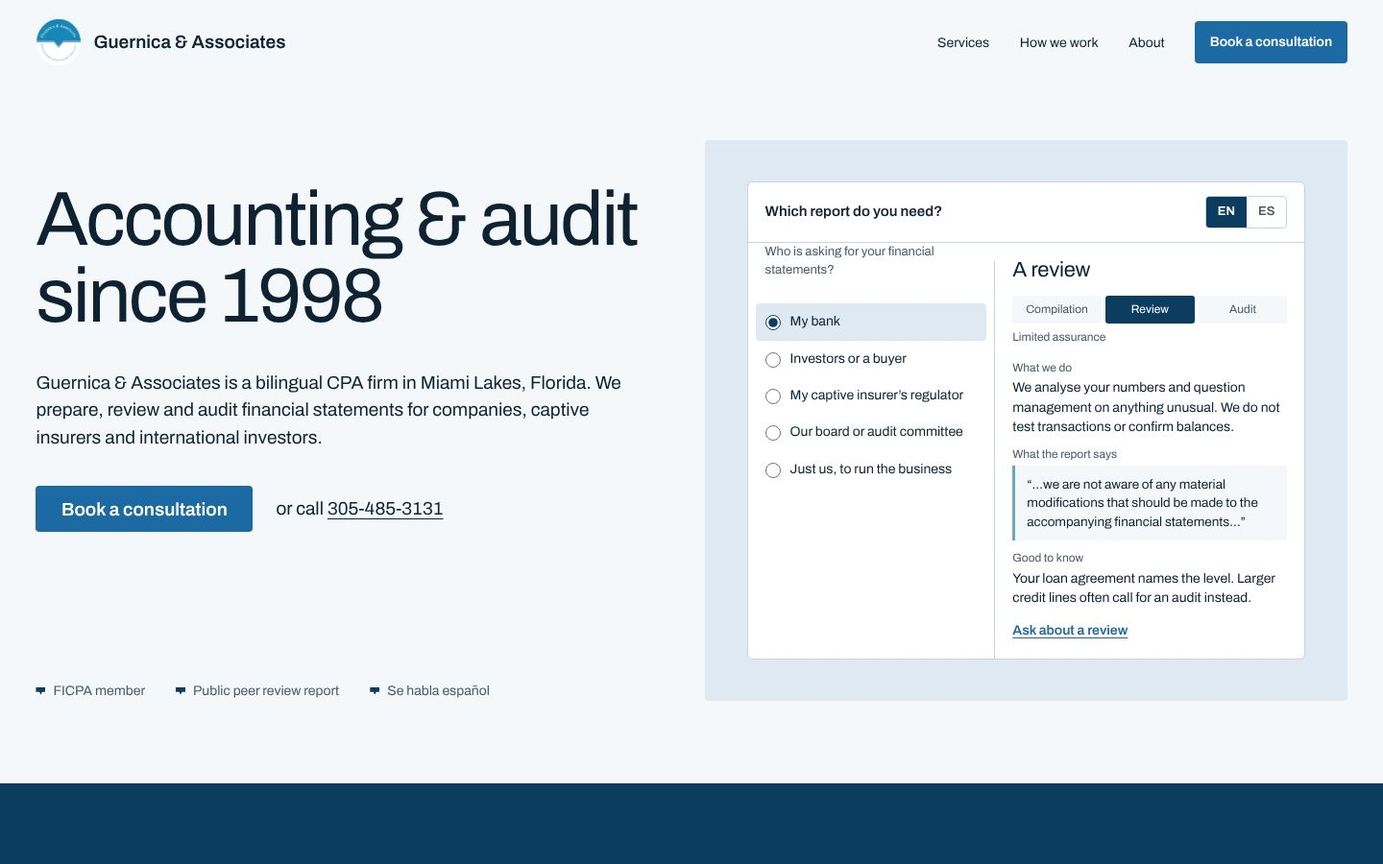
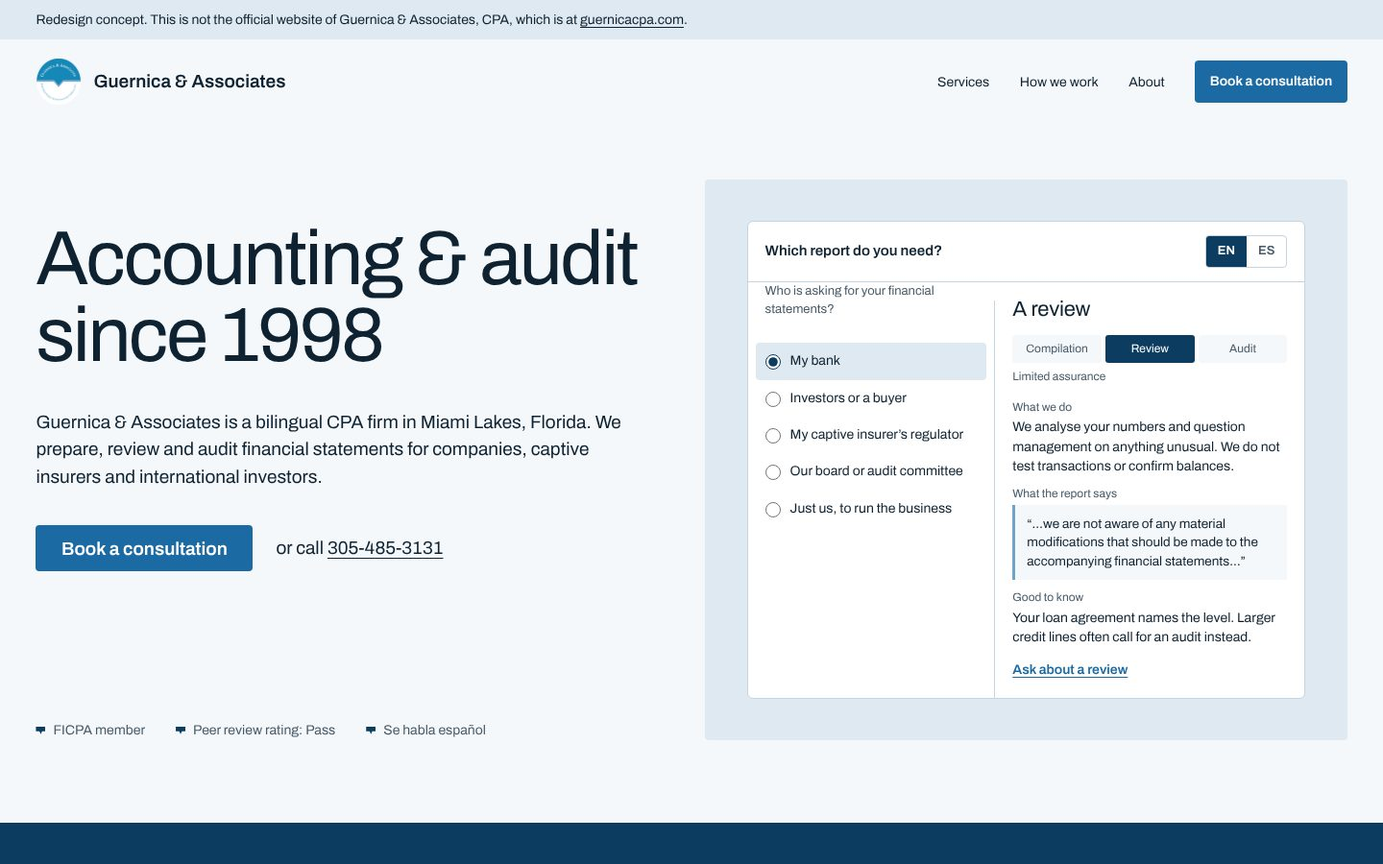
Use the firm's own service lists, team and peer review in CPA redesign
Replace sample content with Guernica & Associates' published accounting
and audit, tax and payroll lists, team titles, peer review rating and
IRS acceptance agent status. Add a redesign-concept notice and noindex.

Claude-Session: https://claude.ai/code/session_01R6cGPo5zSKy9HkRRuWPxVK

diff --git a/guernica-cpa/index.html b/guernica-cpa/index.html
@@ -6,6 +6,7 @@
 <title>Guernica &amp; Associates, CPA</title>
 <meta name="claude:viewport-fit-sides" content="cover">
 <meta name="description" content="Guernica &amp; Associates is a bilingual CPA firm in Miami Lakes, Florida, preparing, reviewing and auditing financial statements since 1998.">
+<meta name="robots" content="noindex">
 <link rel="icon" href="img/logo.png">
 <link rel="preconnect" href="https://fonts.googleapis.com">
 <link rel="preconnect" href="https://fonts.gstatic.com" crossorigin>
@@ -147,13 +148,18 @@ p { margin: 0; }
 .pbc__head b { font-weight: 600; font-size: 15px; }
 .pbc__head span { color: var(--muted); font-size: 13px; font-variant-numeric: tabular-nums; }
 .pbc ul { list-style: none; margin: 0; padding: 0; }
-.pbc li { display: flex; justify-content: space-between; align-items: center; gap: 12px; padding: 10px 18px; border-bottom: 1px solid var(--bg); } /* taste-skill-ignore: interface fragment / scallop mask */
-.pbc li:last-child { border-bottom: 0; } /* taste-skill-ignore: interface fragment / scallop mask */
-.chip { font-size: 12px; font-weight: 600; padding: 4px 9px; border-radius: 999px; white-space: nowrap; transition: background-color .3s ease, color .3s ease; }
-.chip[data-s="req"] { background: var(--bg); color: var(--muted); }
-.chip[data-s="rec"] { background: #e3eef7; color: var(--accent-press); }
-.chip[data-s="tst"] { background: var(--navy); color: #fff; }
-.pbc__foot { padding: 12px 18px; background: var(--bg); font-size: 13px; color: var(--muted); }
+.pbc__intro { padding: 12px 18px 4px; color: var(--muted); font-size: 13px; }
+.pbc li { display: flex; align-items: baseline; gap: 10px; padding: 8px 18px; font-size: 14.5px; transition: color .3s ease, background-color .3s ease; }
+.pbc li::before { content: ""; width: 10px; height: 8px; flex: none; background: var(--line); clip-path: polygon(0 0, 100% 0, 100% 62%, 64% 62%, 50% 100%, 36% 62%, 0 62%); transition: background-color .3s ease; }
+.js .pbc li { color: #64737f; }
+.js .pbc li.on { color: var(--ink); background: var(--bg); }
+.pbc li.on::before, html:not(.js) .pbc li::before { background: var(--navy); }
+.pbc__foot { padding: 12px 18px; background: var(--surface); font-size: 13px; color: var(--ink); display: flex; flex-wrap: wrap; justify-content: space-between; gap: 6px 16px; }
+.pbc__foot a { font-weight: 600; color: var(--accent); }
+
+/* Concept notice */
+.concept { background: var(--surface); font-size: var(--step-small); color: var(--ink); }
+.concept p { padding-block: 10px; }
 
 /* Services */
 .services { padding-block: var(--section); align-items: center; }
@@ -169,6 +175,11 @@ p { margin: 0; }
 .mark { flex: none; width: .78em; height: .62em; background: var(--c, var(--navy)); clip-path: polygon(0 0, 100% 0, 100% 62%, 64% 62%, 50% 100%, 36% 62%, 0 62%); transform: translateY(.04em); }
 .points li:nth-child(3n+2) { --c: var(--accent); }
 .points li:nth-child(3n) { --c: var(--sky); }
+.payroll { margin-top: 64px; }
+.payroll h3 { font-size: var(--step-lead); line-height: 1.2; letter-spacing: -0.01em; }
+.payroll ul { margin-top: 20px; list-style: none; padding: 0; display: grid; grid-template-columns: repeat(3, minmax(0, 1fr)); gap: 12px 40px; font-size: var(--step-small); }
+.payroll li { display: flex; gap: 10px; align-items: baseline; }
+.payroll li::before { content: ""; width: 9px; height: 7px; flex: none; background: var(--accent); clip-path: polygon(0 0, 100% 0, 100% 62%, 64% 62%, 50% 100%, 36% 62%, 0 62%); }
 
 /* Clients list */
 .clients { padding-block: 0 calc(var(--section) * .6); }
@@ -206,7 +217,7 @@ p { margin: 0; }
   mask: radial-gradient(10px at 50% 0, transparent 98%, #000) 50% 0 / 24px 100% repeat-x; } /* taste-skill-ignore: interface fragment / scallop mask */
 .tear a { font-size: var(--step-body); }
 .tear span { font-size: var(--step-small); color: var(--muted); }
-.about__credit { position: absolute; right: max(var(--m), env(safe-area-inset-right, 0px)); bottom: 12px; font-size: 12px; color: #3d3528; background: rgba(255,255,255,.7); padding: 2px 6px; }
+.about__credit { position: absolute; right: max(var(--m), env(safe-area-inset-right, 0px)); bottom: 12px; font-size: 13px; color: #3d3528; background: rgba(255,255,255,.7); padding: 2px 6px; }
 
 /* Proof tiles */
 .proof { padding-block: var(--section); }
@@ -292,6 +303,7 @@ a.tile--name:hover { background: var(--surface); }
   .services__pic { grid-column: 1 / -1; width: 86vw; height: 60svh; margin-bottom: 40px; margin-left: calc(-1 * max(var(--m), env(safe-area-inset-left, 0px))); }
   .services__copy { grid-column: 1 / -1; }
   .points { grid-template-columns: 1fr; gap: 28px; margin-top: 40px; }
+  .payroll ul { grid-template-columns: 1fr 1fr; gap: 10px 20px; }
   .clients__intro { grid-column: 1 / -1; }
   .clients__groups { grid-template-columns: 1fr; margin-top: 40px; }
   .group li { flex-direction: column; gap: 2px; }
@@ -310,6 +322,8 @@ a.tile--name:hover { background: var(--surface); }
 </head>
 <body>
 <script>document.documentElement.classList.add('js');</script>
+
+<div class="concept"><p class="wrap">Redesign concept. This is not the official website of Guernica &amp; Associates, CPA, which is at <a class="link" href="https://www.guernicacpa.com/">guernicacpa.com</a>.</p></div>
 
 <header class="wrap">
   <nav class="nav" aria-label="Main">
@@ -334,7 +348,7 @@ a.tile--name:hover { background: var(--surface); }
       </div>
       <ul class="hero__facts">
         <li>FICPA member</li>
-        <li>Public peer review report</li>
+        <li>Peer review rating: Pass</li>
         <li>Se habla espa&ntilde;ol</li>
       </ul>
     </div>
@@ -384,35 +398,41 @@ a.tile--name:hover { background: var(--surface); }
   <section class="story" id="approach" aria-labelledby="h-approach">
     <div class="wrap grid">
       <div class="story__steps">
-        <h2 class="h2" id="h-approach">How an audit runs here</h2>
-        <div class="step is-active" data-step="1">
-          <h3>One request list, at the start</h3>
-          <p>Before fieldwork we send a single list of everything we need, with due dates, in English or Spanish.</p>
+        <h2 class="h2" id="h-approach">Accounting &amp; auditing</h2>
+        <div class="step is-active" data-step="a">
+          <h3>Statements your lender can rely on</h3>
+          <p>Preparation, compilations, reviews and audits of your financial statements, with the bookkeeping and forecasts behind them.</p>
         </div>
-        <div class="step" data-step="2">
-          <h3>Fieldwork tests what you sent</h3>
-          <p>We confirm balances with your bank and customers, test samples of transactions and walk through the controls behind them.</p>
+        <div class="step" data-step="b">
+          <h3>Controls your board can rely on</h3>
+          <p>Internal control reviews and testing, operational and quality assurance reviews, or your whole internal audit function.</p>
         </div>
-        <div class="step" data-step="3">
-          <h3>A draft before we sign</h3>
-          <p>You read the draft statements and our management letter first. Then we issue the signed report.</p>
+        <div class="step" data-step="c">
+          <h3>Starting, buying or growing</h3>
+          <p>Systems and software for new businesses, start-up consulting, due diligence before an acquisition, and strategic planning.</p>
         </div>
       </div>
       <div class="story__pin">
         <div class="pbc" data-ui>
-          <div class="pbc__head"><b>Audit request list, FY 2026</b><span id="pbc-count">3 of 9 received</span></div>
+          <div class="pbc__head"><b>Accounting &amp; Auditing</b><span id="pbc-count">3 of 14 services</span></div>
+          <p class="pbc__intro">Our experienced accounting and audit professionals can help you with:</p>
           <ul id="pbc">
-            <li>Year-end trial balance <span class="chip" data-s="rec">Received</span></li>
-            <li>Bank statements and reconciliations <span class="chip" data-s="rec">Received</span></li>
-            <li>Accounts receivable aging <span class="chip" data-s="rec">Received</span></li>
-            <li>Accounts payable listing <span class="chip" data-s="req">Requested</span></li>
-            <li>Fixed asset rollforward <span class="chip" data-s="req">Requested</span></li>
-            <li>Loan and lease agreements <span class="chip" data-s="req">Requested</span></li>
-            <li>Board minutes <span class="chip" data-s="req">Requested</span></li>
-            <li>Payroll registers <span class="chip" data-s="req">Requested</span></li>
-            <li>Attorney letters <span class="chip" data-s="req">Requested</span></li>
+            <li data-g="a" class="on">Financial statement preparation, audits, reviews and compilations</li>
+            <li data-g="a" class="on">Bookkeeping and controllership functions</li>
+            <li data-g="c">Accounting system setup for new businesses</li>
+            <li data-g="a" class="on">Financial forecasts and projections</li>
+            <li data-g="c">Business start-up and management consulting</li>
+            <li data-g="c">Accounting software selection and implementation</li>
+            <li data-g="c">Due diligence</li>
+            <li data-g="c">Acquisition planning and due diligence business investigations</li>
+            <li data-g="c">Strategic analysis and planning</li>
+            <li data-g="b">Internal control reviews</li>
+            <li data-g="b">Full outsourcing of internal audit</li>
+            <li data-g="b">Internal controls testing and documentation</li>
+            <li data-g="b">Quality assurance reviews</li>
+            <li data-g="b">Operational audits</li>
           </ul>
-          <div class="pbc__foot" id="pbc-foot">Example list. Yours is written for your company.</div>
+          <div class="pbc__foot"><span>Peer review rating: Pass (year ended Dec 31, 2022)</span><a href="https://www.guernicacpa.com/_files/ugd/37385f_c230e62b45eb47e7815053223981a79b.pdf">Read the report</a></div>
         </div>
       </div>
     </div>
@@ -423,47 +443,62 @@ a.tile--name:hover { background: var(--surface); }
       <img src="img/office-door.jpg" alt="The entrance to Guernica &amp; Associates at 6175 Miami Lakes Drive East, with the firm's blue sign on the glass door" width="900" height="1600" loading="lazy">
     </figure>
     <div class="services__copy" data-rise>
-      <h2 class="h2" id="h-services">Services, in full</h2>
-      <p>The audit is the centre of the practice. Around it sit the books, the controls and the tax work that make an audit go smoothly.</p>
+      <h2 class="h2" id="h-services">Tax and payroll</h2>
+      <p>For businesses of any size or structure (corporations, LLCs, partnerships and non-profits), and for the individuals, families and investors behind them.</p>
       <ul class="points">
-        <li><h3><span class="mark"></span>Audits, reviews, compilations</h3><p>Financial statements at the level your bank, investors or regulator ask for.</p></li>
-        <li><h3><span class="mark"></span>Bookkeeping and controllership</h3><p>Monthly closes and reconciliations, so year-end has no surprises.</p></li>
-        <li><h3><span class="mark"></span>Due diligence</h3><p>Acquisition planning and investigations before you buy a business.</p></li>
-        <li><h3><span class="mark"></span>Internal control reviews</h3><p>Testing and documentation of the controls behind your numbers.</p></li>
-        <li><h3><span class="mark"></span>Accounting system setup</h3><p>Charts of accounts and software for new businesses. QuickBooks ProAdvisor.</p></li>
-        <li><h3><span class="mark"></span>International tax</h3><p>US tax and reporting for foreign investors and international corporations.</p></li>
-        <li><h3><span class="mark"></span>Outsourced internal audit</h3><p>A full internal audit function, reporting to your board or audit committee.</p></li>
-        <li><h3><span class="mark"></span>Forecasts and projections</h3><p>Prospective statements for lenders, investors and your own planning.</p></li>
-        <li><h3><span class="mark"></span>Tax and IRS representation</h3><p>Business returns, and representation before the IRS and state authorities.</p></li>
-        <li><h3><span class="mark"></span>Operational audits</h3><p>Quality assurance reviews and operational audits of how work gets done.</p></li>
-        <li><h3><span class="mark"></span>Strategic planning</h3><p>Analysis and planning for start-ups and growing companies.</p></li>
-        <li><h3><span class="mark"></span>Payroll</h3><p>Online payroll and payroll taxes for small and midsize businesses.</p></li>
+        <li><h3><span class="mark"></span>Individual tax</h3><p>Personal returns prepared with current tax preparation and research software.</p></li>
+        <li><h3><span class="mark"></span>Business tax</h3><p>Returns prepared in compliance with every law, using every saving available.</p></li>
+        <li><h3><span class="mark"></span>International tax</h3><p>Inbound and outbound investment. IRS Certifying Acceptance Agent for ITINs and FIRPTA.</p></li>
+        <li><h3><span class="mark"></span>Tax planning</h3><p>A plan based on the most recent law, for this year and the years ahead.</p></li>
+        <li><h3><span class="mark"></span>Estate and trust tax</h3><p>Planning and preparation for your beneficiaries and your business succession.</p></li>
+        <li><h3><span class="mark"></span>Business valuation</h3><p>Full financial models, up to complex, illiquid securities and Level 3 assets.</p></li>
       </ul>
+      <div class="payroll">
+        <h3>Payroll</h3>
+        <ul>
+          <li>General payroll processing</li>
+          <li>New hire reporting</li>
+          <li>State and local tax filing</li>
+          <li>Federal tax filing</li>
+          <li>Quarterly tax filing</li>
+          <li>Year-end reporting</li>
+          <li>W-2 and 1099 preparation</li>
+          <li>Garnishment payment</li>
+          <li>Retirement plan reporting</li>
+          <li>Paper checks and direct deposit</li>
+          <li>Employee portals</li>
+          <li>Online payroll portal</li>
+        </ul>
+      </div>
     </div>
   </section>
 
   <section class="wrap grid clients" aria-labelledby="h-clients">
     <div class="clients__intro" data-rise>
       <h2 class="h2" id="h-clients">Who we work with</h2>
-      <p>Local companies and international clients, served by bilingual professionals in English and Spanish.</p>
+      <p>A bilingual team in Miami Lakes, fluent in English and Spanish, led by a CPA licensed in Florida since 1989.</p>
     </div>
     <div class="clients__groups" data-rise>
       <div class="group">
-        <h3>In the United States</h3>
+        <h3>Our team</h3>
         <ul>
-          <li><span>Small and midsize companies</span><span>Accounting, audit, tax, payroll</span></li>
-          <li><span>National firms</span><span>Audit and advisory</span></li>
-          <li><span>New businesses</span><span>Setup and bookkeeping</span></li>
-          <li><span>Boards and audit committees</span><span>Internal audit</span></li>
+          <li><span>Eduardo A. Guernica, CPA, MST, CVA</span><span>Founder and CEO</span></li>
+          <li><span>Elvis Guernica, M.S.A.</span><span>Audit &amp; Assurance Manager</span></li>
+          <li><span>Ana L. Ramos</span><span>Tax Manager</span></li>
+          <li><span>Loreli Mendez</span><span>Certified Public Accountant</span></li>
+          <li><span>Esmeralda Valdes</span><span>Tax Senior</span></li>
+          <li><span>Mileny Bethencourt</span><span>Administrative Assistant</span></li>
         </ul>
       </div>
       <div class="group">
-        <h3>International</h3>
+        <h3>Our clients</h3>
         <ul>
-          <li><span>Captive foreign insurers</span><span>Audit and tax</span></li>
-          <li><span>International investors</span><span>US tax and due diligence</span></li>
-          <li><span>International corporations</span><span>Accounting and reporting</span></li>
-          <li><span>Spanish-speaking owners</span><span>Every service, en espa&ntilde;ol</span></li>
+          <li><span>National firms</span><span>Corporate, tax, advisory, assurance</span></li>
+          <li><span>Captive foreign insurers</span><span>Assurance and tax</span></li>
+          <li><span>International investors</span><span>International tax and ITINs</span></li>
+          <li><span>Small and midsize companies</span><span>Accounting, tax, payroll</span></li>
+          <li><span>Local and international corporations</span><span>Accounting and reporting</span></li>
+          <li><span>Individuals and families</span><span>Personal, estate and trust tax</span></li>
         </ul>
       </div>
     </div>
@@ -479,29 +514,30 @@ a.tile--name:hover { background: var(--surface); }
       <article class="letter" data-rise>
         <div class="letter__top"><img src="img/logo.png" alt="" width="52" height="52"><h2 class="h2" id="h-about">About the firm</h2></div>
         <div class="letter__body">
-          <p>We have been in practice since 1998, first as Guernica &amp; Gonzalez, CPA and Consultants, and now as Guernica &amp; Associates.</p>
-          <p>Our work is national and international: corporate tax, advisory and assurance for national firms, captive foreign insurance companies and international investors, and for small and midsize companies here in South Florida.</p>
-          <p>Our professionals work in <mark>English and Spanish</mark>, so owners and their staff can talk through their numbers in the language they think in.</p>
-          <p>We treat each client relationship as a partnership. When your statements hold up in front of your bank, your board or your regulator, we have done our job.</p>
+          <p>Since 1998, first as Guernica &amp; Gonzalez and now as Guernica &amp; Associates, we have provided corporate, tax, advisory and assurance services to national firms, captive foreign insurance companies and international investors.</p>
+          <p>We take pride in personal attention. The help you receive comes from years of advanced training, technical expertise and financial acumen, delivered on time.</p>
+          <p>Our bilingual professionals, fluent in <mark>English and Spanish</mark>, help local and international corporations manage their accounting and tax and meet today&rsquo;s reporting requirements.</p>
+          <p>We view every client relationship as a partnership. Our success is a direct result of yours.</p>
         </div>
-        <div class="letter__sign"><em>Guernica &amp; Associates, CPA</em><span>Certified Public Accountants &amp; Consultants</span></div>
+        <div class="letter__sign"><em>Eduardo A. Guernica, CPA, MST, CVA</em><span>Founder and CEO. Licensed CPA in Florida since 1989, MS in Taxation (FIU), Certified Valuation Analyst.</span></div>
       </article>
       <div class="tear"><a class="link" href="mailto:info@guernicacpa.com">info@guernicacpa.com</a><span>We reply in English or Spanish</span></div>
     </div>
+    <span class="about__credit">Ledger: Dupedianer, CC BY-SA 4.0</span>
   </section>
 
   <section class="wrap proof" aria-labelledby="h-proof">
     <div class="tiles" data-rise>
       <div class="tile tile--head">
         <h2 class="h2" id="h-proof">Credentials we hold</h2>
-        <p>An audit is only as good as the firm that signs it. These are ours, and our peer review report is public.</p>
+        <p>Our accounting and audit practice received a peer review rating of Pass in its most recent System Review, for the year ended December 31, 2022.</p>
       </div>
       <div class="tile"><img src="img/ficpa.jpg" alt="Proud member of the Florida Institute of Certified Public Accountants" width="560" height="168" loading="lazy"></div>
       <div class="tile"><img src="img/proadvisor.png" alt="Intuit QuickBooks ProAdvisor" width="346" height="490" loading="lazy"></div>
+      <a class="tile tile--name" href="https://www.guernicacpa.com/_files/ugd/37385f_c230e62b45eb47e7815053223981a79b.pdf"><b>Peer review: Pass</b><span>Read the report</span></a>
+      <div class="tile tile--name"><b>IRS Certifying Acceptance Agent</b><span>ITINs for foreign individuals</span></div>
       <div class="tile"><img src="img/cpa-mark.png" alt="The CPA. Never Underestimate The Value." width="518" height="196" loading="lazy"></div>
       <div class="tile tile--zoom"><img src="img/prestige-2022.jpg" alt="South East USA Prestige Awards, 2022 winner" width="438" height="411" loading="lazy"></div>
-      <a class="tile tile--name" href="https://www.guernicacpa.com/accounting-auditing"><b>Peer review report</b><span>Read it on our audit page</span></a>
-      <div class="tile tile--name"><b>Since 1998</b><span>Formerly Guernica &amp; Gonzalez</span></div>
     </div>
   </section>
 
@@ -620,25 +656,17 @@ a.tile--name:hover { background: var(--surface); }
   }));
   render(false);
 
-  // Pinned request list advances with the steps
-  const states = {
-    1: ['rec','rec','rec','req','req','req','req','req','req'],
-    2: ['tst','tst','tst','rec','rec','rec','rec','rec','req'],
-    3: ['tst','tst','tst','tst','tst','tst','tst','tst','tst']
-  };
-  const label = { req: 'Requested', rec: 'Received', tst: 'Tested' };
-  const chips = [...document.querySelectorAll('#pbc .chip')];
-  const count = $('pbc-count'), foot = $('pbc-foot');
-  function setStep(n) {
-    states[n].forEach((s, i) => { chips[i].dataset.s = s; chips[i].textContent = label[s]; });
-    const got = states[n].filter((s) => s !== 'req').length;
-    count.textContent = n === 3 ? 'Draft report sent' : got + ' of 9 received';
-    foot.textContent = n === 3 ? 'Every item tested. Management letter attached to the draft.' : 'Example list. Yours is written for your company.';
-    document.querySelectorAll('.step').forEach((s) => s.classList.toggle('is-active', s.dataset.step == n));
+  // Pinned service list highlights the group each statement describes
+  const rows = [...document.querySelectorAll('#pbc li')];
+  const count = $('pbc-count');
+  function setStep(g) {
+    rows.forEach((r) => r.classList.toggle('on', r.dataset.g === g));
+    count.textContent = rows.filter((r) => r.dataset.g === g).length + ' of 14 services';
+    document.querySelectorAll('.step').forEach((s) => s.classList.toggle('is-active', s.dataset.step === g));
   }
   const steps = document.querySelectorAll('.step');
   if ('IntersectionObserver' in window) {
-    const so = new IntersectionObserver((es) => es.forEach((e) => { if (e.isIntersecting) setStep(+e.target.dataset.step); }), { rootMargin: '-45% 0px -45% 0px' });
+    const so = new IntersectionObserver((es) => es.forEach((e) => { if (e.isIntersecting) setStep(e.target.dataset.step); }), { rootMargin: '-45% 0px -45% 0px' });
     steps.forEach((s) => so.observe(s));
     const ro = new IntersectionObserver((es) => es.forEach((e) => { if (e.isIntersecting) { e.target.classList.add('in'); ro.unobserve(e.target); } }), { rootMargin: '0px 0px -8% 0px' });
     document.querySelectorAll('[data-rise]').forEach((el) => ro.observe(el));

diff --git a/guernica-cpa/AUDIT.md b/guernica-cpa/AUDIT.md
@@ -1,62 +1,65 @@
 # Guernica & Associates, CPA: design audit and redesign
 
-Audited: https://www.guernicacpa.com/ (homepage), 30 Oct 2026, using tasteskill v2 (`Leonxlnx/taste-skill`): its browser inspector at 1440, 768 and 390px, and its juror critique.
+Audited: https://www.guernicacpa.com/ (homepage plus the Accounting & Auditing, Taxation, Payroll and About pages), 30 Oct 2026.
+
+Tool: tasteskill v2, installed with `npx skills add Leonxlnx/taste-skill` (skill `design-taste-frontend`), using its browser inspector at 1440, 768 and 390px, its lint, its direction draw and its juror critique.
 
 ## Verdict
 
-The current site hides an accounting and audit practice behind a stock tax-form photo, an off-topic headline ("Business Advisory Solutions") and a layout that does not work on phones. The redesign leads with what the firm actually signs: compilations, reviews and audits.
+The current site hides an accounting and audit practice behind a stock tax-form photo, an off-topic headline ("Business Advisory Solutions") and a layout that does not work on phones. The redesign leads with what the firm actually signs (compilations, reviews and audits) and uses only the firm's own published content.
 
 | | Before | After |
 | --- | --- | --- |
 | Inspector result | 8 FAIL, 5 WARN | 0 FAIL, 1 WARN |
-| Juror score (of 10) | 4.3 | 7.4 |
+| Juror score (of 10) | 4.3 | 7.5 |
 | Phone layout | Desktop page shrunk to 980px; tablet scrolls sideways 212px | Own phone composition, no sideways scroll |
 | First-screen title | "Business Advisory Solutions" under a "Taxation Specialists" label | "Accounting & audit since 1998" |
 | Primary action on first screen | None | "Book a consultation" button and phone number |
 | Typefaces | 3 (Open Sans, Raleway, Georgia) | 1 (Archivo) |
 | Text shadows | 23 | 0 |
 | Unreadable text (measured) | 4 blocks at 1:1 contrast | 0 |
-| Words of real content | 347 | about 800 |
+| Peer review "Pass" | A bare "Peer Review Report:" label on an inner page | On the first screen, the services panel and the credentials |
 
 ![Before, desktop](audit/before-desktop.jpg) ![After, desktop](audit/after-desktop.jpg)
 
 ## What is wrong today (ranked)
 
-1. **Not mobile-ready.** The page renders at 980px on a 390px phone, so visitors pinch and zoom. At tablet width it scrolls sideways and the "CPA" title is half covered.
+1. **Not mobile-ready.** The page renders at 980px on a 390px phone. At tablet width it scrolls sideways and the "CPA" title is half covered.
 2. **The wrong story.** The hero is a 2007 IRS Form 1040 with a calculator and says "Taxation Specialists". The firm's own pages say its core is accounting and audit.
 3. **No clear next step.** No button above the fold. The only actions are three identical "More Info" buttons.
-4. **Template look.** Three identical navy cards with centred small text, a centred "ABOUT US" wall of text, and a footer that is mostly empty navy.
-5. **Legibility.** 23 text shadows, light-on-light text, three typefaces, and body text at 1.2 line height.
-6. **Strengths buried.** Bilingual service, captive insurers and international investors, the peer review report and the FICPA membership sit in paragraphs or as small badges at the bottom.
+4. **Best proof is buried.** The firm passed its most recent peer review (System Review, year ended Dec 31, 2022) and is an IRS Certifying Acceptance Agent. Neither appears on the homepage.
+5. **Team page errors.** On the About page, bios sit under the wrong names (the "Anita" bio is under Loreli Mendez, Loreli's bio is under Esmeralda Valdes), and "Certified Puplic Accountant" is misspelled. For an audit firm, that undercuts trust.
+6. **Template look and legibility.** Identical navy cards with centred small text, 23 text shadows, three typefaces, body text at 1.2 line height.
 
 ## The redesign
 
 - **Idea:** the three levels of assurance the firm signs (compilation, review, audit) become a working engagement picker on the first screen.
-- **Live thing:** "Who is asking for your financial statements?" Pick bank, investors, captive insurance regulator, board, or just you. It shows the engagement, the assurance level, what the CPA does, the actual report wording, and a link to ask about it. One tap switches it to Spanish.
-- **Signature move:** "How an audit runs here" pins an example audit request list that moves from Requested to Received to Tested as you scroll.
-- **Pictures:** the firm's own office photos and credentials, plus two credited open-licence photos (Miami Lakes, a ledger).
+- **Live thing:** "Who is asking for your financial statements?" Pick bank, investors, captive insurance regulator, board, or just you. It shows the engagement, the assurance level, what the CPA does, the report wording, and a link to ask. One tap switches it to Spanish.
+- **Signature move:** "Accounting & auditing" pins the firm's own 14-item service list and highlights it in three groups as you scroll: statements for lenders, controls for boards, starting or buying a business.
+- **All content from the firm:** the 14 accounting and audit services, six tax services, 12 payroll items, six team members and titles, the peer review rating with a link to the report, and the IRS acceptance agent status.
 - **Brand kept:** navy and logo blue; the notched chevron from the door sign and logo is the one shape used across the page.
+- **Direction dealt:** "The product performs" (seed 1757103226), palette kept from the brand. The hero follows the direction's composition (headline left, working fragment right) instead of the dealt "sentence split by a frame" hero, because the direction outranks the hero blueprint.
 
 ## Critique, final round
 
 ```
-ROUND 2
+ROUND 3
 Seen in one second: "Accounting & audit since 1998" beside a working report picker
 Idea (one sentence): the three levels of assurance become a picker that answers "which report do I need?"
 Live thing: bilingual engagement picker (5 situations, EN/ES)
-Layout words by section: hero=split+fragment / approach=pinned list / services=shaped photo+points / clients=two lists / place=full-bleed photo / about=letter on ledger / proof=tiles / contact=band / footer=strip
-Scores: design 7 · usability 8 · creativity 7 · content 7.5 → overall 7.4
+Layout words by section: hero=split+fragment / accounting=pinned list / tax=shaped photo+points / people=two lists / place=full-bleed photo / about=letter on ledger / proof=tiles / contact=band / footer=strip
+Scores: design 7 · usability 8 · creativity 7 · content 8.5 → overall 7.5
 Caps applied: creativity capped at 7 (another audit firm could use a similar picker; bilingual and captive content make it specific, not unique)
 ```
 
-Still short of the best: no video (no honest footage of the firm's work exists), and the services and clients sections are tidy rather than memorable. A real photo of the team at work would lift both.
+Still short: no video (no honest footage of the firm's work exists), and there is no photo of the team. A real team photo would lift the "Who we work with" section most.
 
 ## Confirm with the firm before launch
 
-- The **audit request list** in "How an audit runs here" is an example. Items and wording should match their real request list.
-- **Picker wording:** the report excerpts follow standard AICPA report language. The firm should approve each situation's advice (especially captive insurers and loan covenants) and the Spanish text.
-- **Peer review link** points to their current Accounting & Auditing page, where the report is posted.
-- **Credits:** two photos are CC BY-SA 4.0 and are credited in the footer. Keep the credit line if they stay.
+- **Picker wording.** The report excerpts follow standard AICPA report language. The firm should approve each situation's advice (especially loan covenants and captive insurers) and the Spanish text.
+- **Team titles.** Names and titles are copied from the About page, which has the mismatched bios noted above. Confirm each title.
+- **Concept banner.** The top bar says this is a redesign concept, not the official site. Remove it only when the firm adopts the design.
+- **Credits.** Two photos are CC BY-SA 4.0 and are credited in the footer. Keep the credit line if they stay.
 
 ## Files
 
